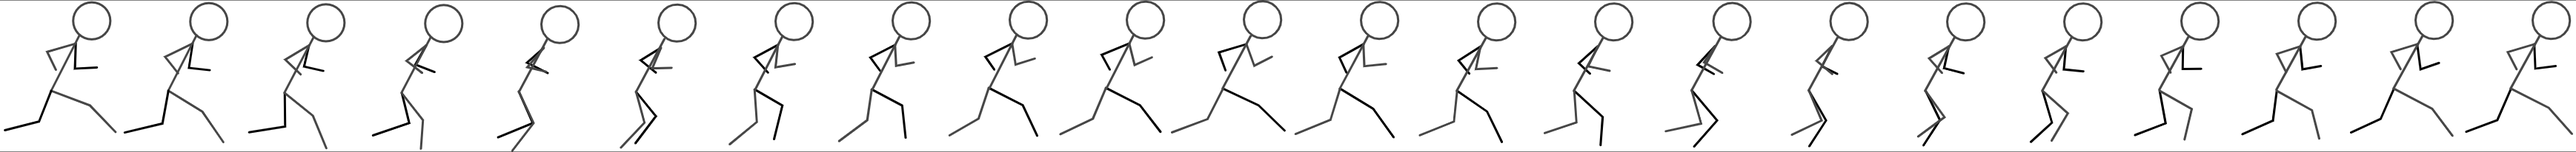
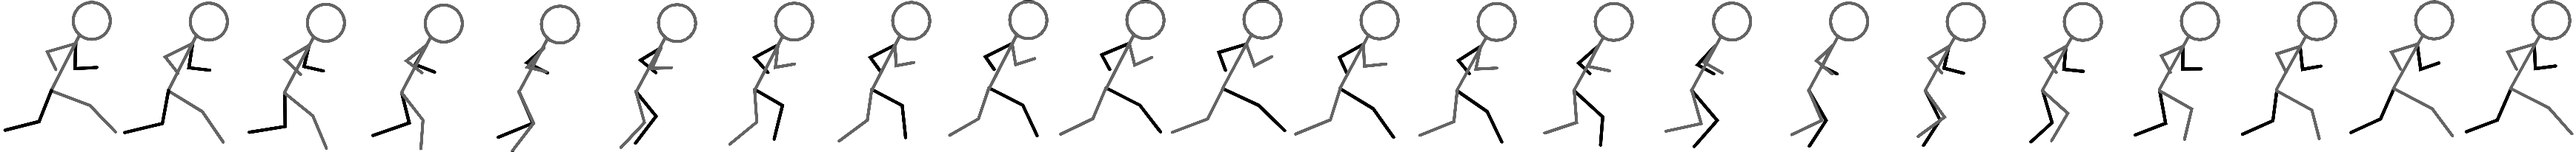
update
thickened the player to it doesn't look bad, removed white background

diff --git a/jumpy 2/jumpy 2.py b/jumpy 2/jumpy 2.py
@@ -37,10 +37,10 @@ tileImgs = [
 tileSize = tileImgs[1].get_width(); 
 
 stickAnim = [
-    pygame.image.load(path+"/images/stick figure/run.png").convert() # 22 frame animation, best at 44 fps, * by .2
+    pygame.image.load(path+"/images/stick figure/run.png").convert_alpha() # 22 frame animation, best at 44 fps, * by .2
 ]
 stickAnim[0].set_colorkey((255,255,255));
-stickAnim[0] = pygame.transform.scale(stickAnim[0], (stickAnim[0].get_width()*1, stickAnim[0].get_height()*1));
+stickAnim[0] = pygame.transform.scale(stickAnim[0], (stickAnim[0].get_width()*.25, stickAnim[0].get_height()*.25));
 print(stickAnim[0].get_height());
 skyblue = pygame.Color("skyblue");
 
@@ -93,9 +93,15 @@ def generateChunk (chunkX, chunkY) :
     
     
     
-    
-    
-class Player (): # thing
+class Mouse:
+    def __init__(mouse):
+        
+        mouse.x = 0;
+        mouse.y = 0;
+        mouse.cameraX = 0;
+        mouse.cameraY = 0;
+mouse = Mouse();
+class Player ():
     def __init__(t):
     
         t.x = 0;
@@ -168,8 +174,8 @@ player.lastChunkPos = 0;
 
 def updateCamera () :
     
-    mouseOffsetX = mousePos[0] - sW/2;
-    mouseOffsetY = mousePos[1] - sH/2;
+    mouseOffsetX = mouse.x - sW/2;
+    mouseOffsetY = mouse.y - sH/2;
     
     camera.realX -= round((camera.realX - (player.x + player.w/2) + sW/2 - mouseOffsetX) / camera.smoothness);
     camera.realY -= round((camera.realY - (player.y + player.h/2) + sH/2 - mouseOffsetY) / camera.smoothness);
@@ -186,7 +192,7 @@ def updateCamera () :
 
 def playerFrame () :
     
-     
+    
     updateCamera();
     
     player.px = player.x;
@@ -198,9 +204,20 @@ def playerFrame () :
     player.chunkPos = getChunkPos(player.x, player.y);
     
     player.tilePos = getTilePos(player.x, player.y);
+    
+    tileBelow = getTile(player.x, player.y + player.h);
     #REMOVE LATER!!!
     screen.blit(stickAnim[0], (100, 200));
-    tileBelow = getTile(player.x, player.y + player.h);
+    
+    
+    testRect1 = pygame.Rect((sW/2, sH/2), (50, 50));
+    testRect1.x = camera.x - mouse.cameraX/2;
+    print(testRect1.x);
+    testRect2 = pygame.Rect((sW/2 - 2.5, sH/2 - 2.5), (5, 5));
+    
+    pygame.draw.rect(screen, (0, 255, 0), testRect1);
+    pygame.draw.rect(screen, (255, 0, 0), testRect2);
+    
     
     #print(player.tilePos);
     
@@ -288,18 +305,18 @@ while running: # game loop
     screen.fill(skyblue);
     
     keys = pygame.key.get_pressed();
-    mousePos = pygame.mouse.get_pos();
-   
+    temporaryPos = pygame.mouse.get_pos();
+    mouse.x, mouse.y = temporaryPos[0], temporaryPos[1];
     
     
     
     playerFrame();
-    cameraChunk = getChunkPos(int(mousePos[0] + camera.x), int(mousePos[1] + camera.y));
+    cameraChunk = getChunkPos(int(mouse.x + camera.x), int(mouse.y + camera.y));
     
     renderTiles(cameraChunk);
     
     
-    print(str(cameraChunk[0]) + ", " + str(cameraChunk[1]));
+    #print(str(cameraChunk[0]) + ", " + str(cameraChunk[1]));
     
     
     
